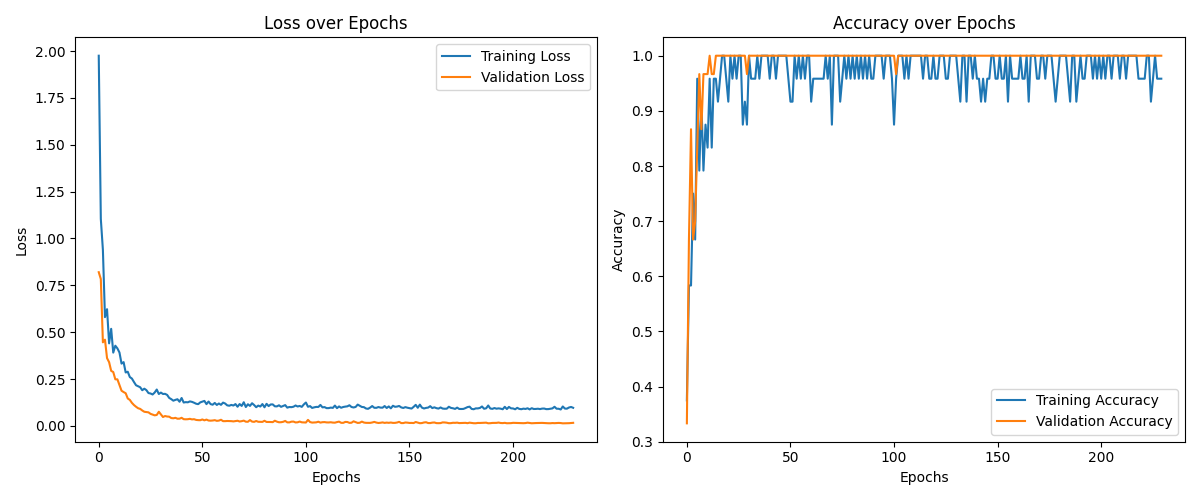
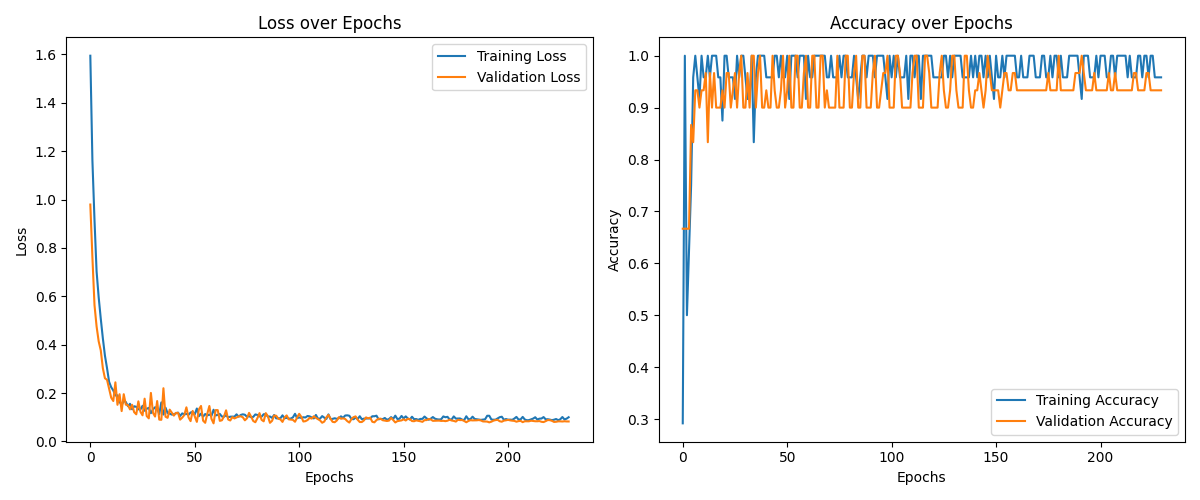
- optimization

diff --git a/src/models/mlp/mlp.py b/src/models/mlp/mlp.py
@@ -9,12 +9,20 @@ class MLP:
         self.optimizer = optimizer
 
         for i in range(0, len(self.layers)):
-            if self.layers[i].input_size is None:
-                self.layers[i].input_size = self.layers[i - 1].output_size
-                self.layers[i]._init_weights()
 
-            if self.optimizer:
-                self.layers[i].optimizer = self.optimizer
+            last_output_size = None
+            for j in range(i -1, -1, -1):
+                if hasattr(self.layers[j], 'output_size'):
+                    last_output_size = self.layers[j].output_size
+                    break
+
+            if(hasattr(self.layers[i], 'input_size')):
+                if self.layers[i].input_size is None:
+                    self.layers[i].input_size = last_output_size
+                    self.layers[i]._init_weights()
+
+                if self.optimizer:
+                    self.layers[i].optimizer = self.optimizer
     
     def forward(self, X):
         for layer in self.layers:
@@ -79,9 +87,26 @@ class MLP:
     def summary(self):
         print("Network Summary:")
         print("=" * 40)
-        print(f"{'Layer':<10}{'Input':<10}{'Output':<10}{'Activation':<10}")
+        print(f"{'Layer':<10}{'Name':<15}{'Input':<10}{'Output':<10}{'Activation':<10}")
         print("-" * 40)
         for i, layer in enumerate(self.layers):
-            activation_name = layer.activation.__name__ if callable(layer.activation) else layer.activation
-            print(f"{i+1:<10}{layer.input_size:<10}{layer.output_size:<10}{activation_name:<10}")
+            # Sprawdzamy, czy warstwa ma atrybut 'input_size'
+            if hasattr(layer, 'input_size'):
+                input_size = layer.input_size
+            else:
+                input_size = "N/A"  # Jeśli warstwa nie ma input_size (np. BatchNormalization)
+            
+            # Sprawdzamy, czy warstwa ma atrybut 'activation'
+            if hasattr(layer, 'activation'):
+                activation_name = layer.activation.__name__ if callable(layer.activation) else layer.activation
+            else:
+                activation_name = "None"  # Dla warstw, które nie mają aktywacji (np. BatchNormalization)
+
+            # Sprawdzamy, czy warstwa ma atrybut 'output_size'
+            if hasattr(layer, 'output_size'):
+                output_size = layer.output_size
+            else:
+                output_size = "N/A"  # Jeśli warstwa nie ma output_size (np. BatchNormalization)
+
+            print(f"{i+1:<10}{layer._name:<15}{input_size:<10}{output_size:<10}{activation_name:<10}")
         print("=" * 40)

diff --git a/src/models/mlp/layers.py b/src/models/mlp/layers.py
@@ -11,16 +11,23 @@ activations = {
 
 class Dense:
     def __init__(self, neurons, input_size=None, activation='relu', optimizer=None):
+        self._name = "Dense"
         self.input_size = input_size
         self.output_size = neurons
-        self.activation, self.activation_derivative = activations[activation]    
+        self.activation, self.activation_derivative = activations[activation]
+        self.activation_name = activation
         self.optimizer = optimizer
 
         if input_size is not None:
             self._init_weights()
 
     def _init_weights(self):
-        self.weights = np.random.randn(self.input_size, self.output_size) * np.sqrt(2 / self.input_size)
+        if self.activation_name == 'relu':
+            self.weights = np.random.randn(self.input_size, self.output_size) * np.sqrt(2 / self.input_size)
+        elif self.activation_name in ['sigmoid', 'tanh']:
+            self.weights = np.random.randn(self.input_size, self.output_size) * np.sqrt(1 / self.input_size)
+        else:
+            self.weights = np.random.randn(self.input_size, self.output_size) * 0.01
         self.biases = np.zeros((1, self.output_size))
 
     def forward(self, X):
@@ -39,10 +46,32 @@ class Dense:
 
         self.dW = np.dot(self.input.T, dz)
         self.db = np.sum(dz, axis=0, keepdims=True)
-        dX = np.dot(dz, self.weights.T)
 
         dX = np.dot(dz, self.weights.T)
 
         self.optimizer.update(self)
 
         return dX
+
+class BatchNormalization:
+    def __init__(self, momentum=0.9, epsilon=1e-5):
+        self._name = "BatchNorm"
+        self.momentum = momentum
+        self.epsilon = epsilon
+        self.running_mean = None
+        self.running_var = None
+
+    def forward(self, X):
+        if self.running_mean is None:
+            self.running_mean = np.mean(X, axis=0)
+            self.running_var = np.var(X, axis=0)
+        
+        self.batch_mean = np.mean(X, axis=0)
+        self.batch_var = np.var(X, axis=0)
+    
+        self.X_norm = (X - self.batch_mean) / np.sqrt(self.batch_var + self.epsilon)
+        
+        return self.X_norm
+    
+    def backward(self, dA):
+        return dA

diff --git a/src/models/mlp/optimizers.py b/src/models/mlp/optimizers.py
@@ -3,6 +3,7 @@ class Optimizer:
     def __init__(self, learning_rate, schedule=None):
         self.learning_rate = learning_rate
         self.schedule = schedule
+        self.iterations = 0
 
     def update(self, layer):
         raise NotImplementedError("This method should be overridden by subclasses")
@@ -10,6 +11,9 @@ class Optimizer:
     def update_lr(self, epoch):
         if self.schedule:
             self.learning_rate = self.schedule.get_lr(epoch)
+    
+    def step(self):
+        self.iterations += 1
 
 class SGD(Optimizer):
     def __init__(self, learning_rate=0.01):
@@ -25,7 +29,6 @@ class Adam(Optimizer):
         self.beta1 = beta1
         self.beta2 = beta2
         self.epsilon = epsilon
-        self.t = 0
 
     def update(self, layer):
         if not hasattr(layer, 'm'):
@@ -34,17 +37,17 @@ class Adam(Optimizer):
             layer.m_b = np.zeros_like(layer.biases)
             layer.v_b = np.zeros_like(layer.biases)
 
-        self.t += 1
+        self.step()
 
         layer.m = self.beta1 * layer.m + (1 - self.beta1) * layer.dW
         layer.v = self.beta2 * layer.v + (1 - self.beta2) * (layer.dW ** 2)
         layer.m_b = self.beta1 * layer.m_b + (1 - self.beta1) * layer.db
         layer.v_b = self.beta2 * layer.v_b + (1 - self.beta2) * (layer.db ** 2)
 
-        m_hat = layer.m / (1 - self.beta1 ** self.t)
-        v_hat = layer.v / (1 - self.beta2 ** self.t)
-        m_hat_b = layer.m_b / (1 - self.beta1 ** self.t)
-        v_hat_b = layer.v_b / (1 - self.beta2 ** self.t)
+        m_hat = layer.m / (1 - self.beta1 ** self.iterations)
+        v_hat = layer.v / (1 - self.beta2 ** self.iterations)
+        m_hat_b = layer.m_b / (1 - self.beta1 ** self.iterations)
+        v_hat_b = layer.v_b / (1 - self.beta2 ** self.iterations)
 
         layer.weights -= self.learning_rate * m_hat / (np.sqrt(v_hat) + self.epsilon)
         layer.biases -= self.learning_rate * m_hat_b / (np.sqrt(v_hat_b) + self.epsilon)

diff --git a/src/models/mlp_run.py b/src/models/mlp_run.py
@@ -1,5 +1,5 @@
 from mlp.mlp import MLP
-from mlp.layers import Dense
+from mlp.layers import Dense, BatchNormalization
 from mlp.optimizers import Adam
 from mlp.lr_schedules import ExponentialDecay, StepDecay
 
